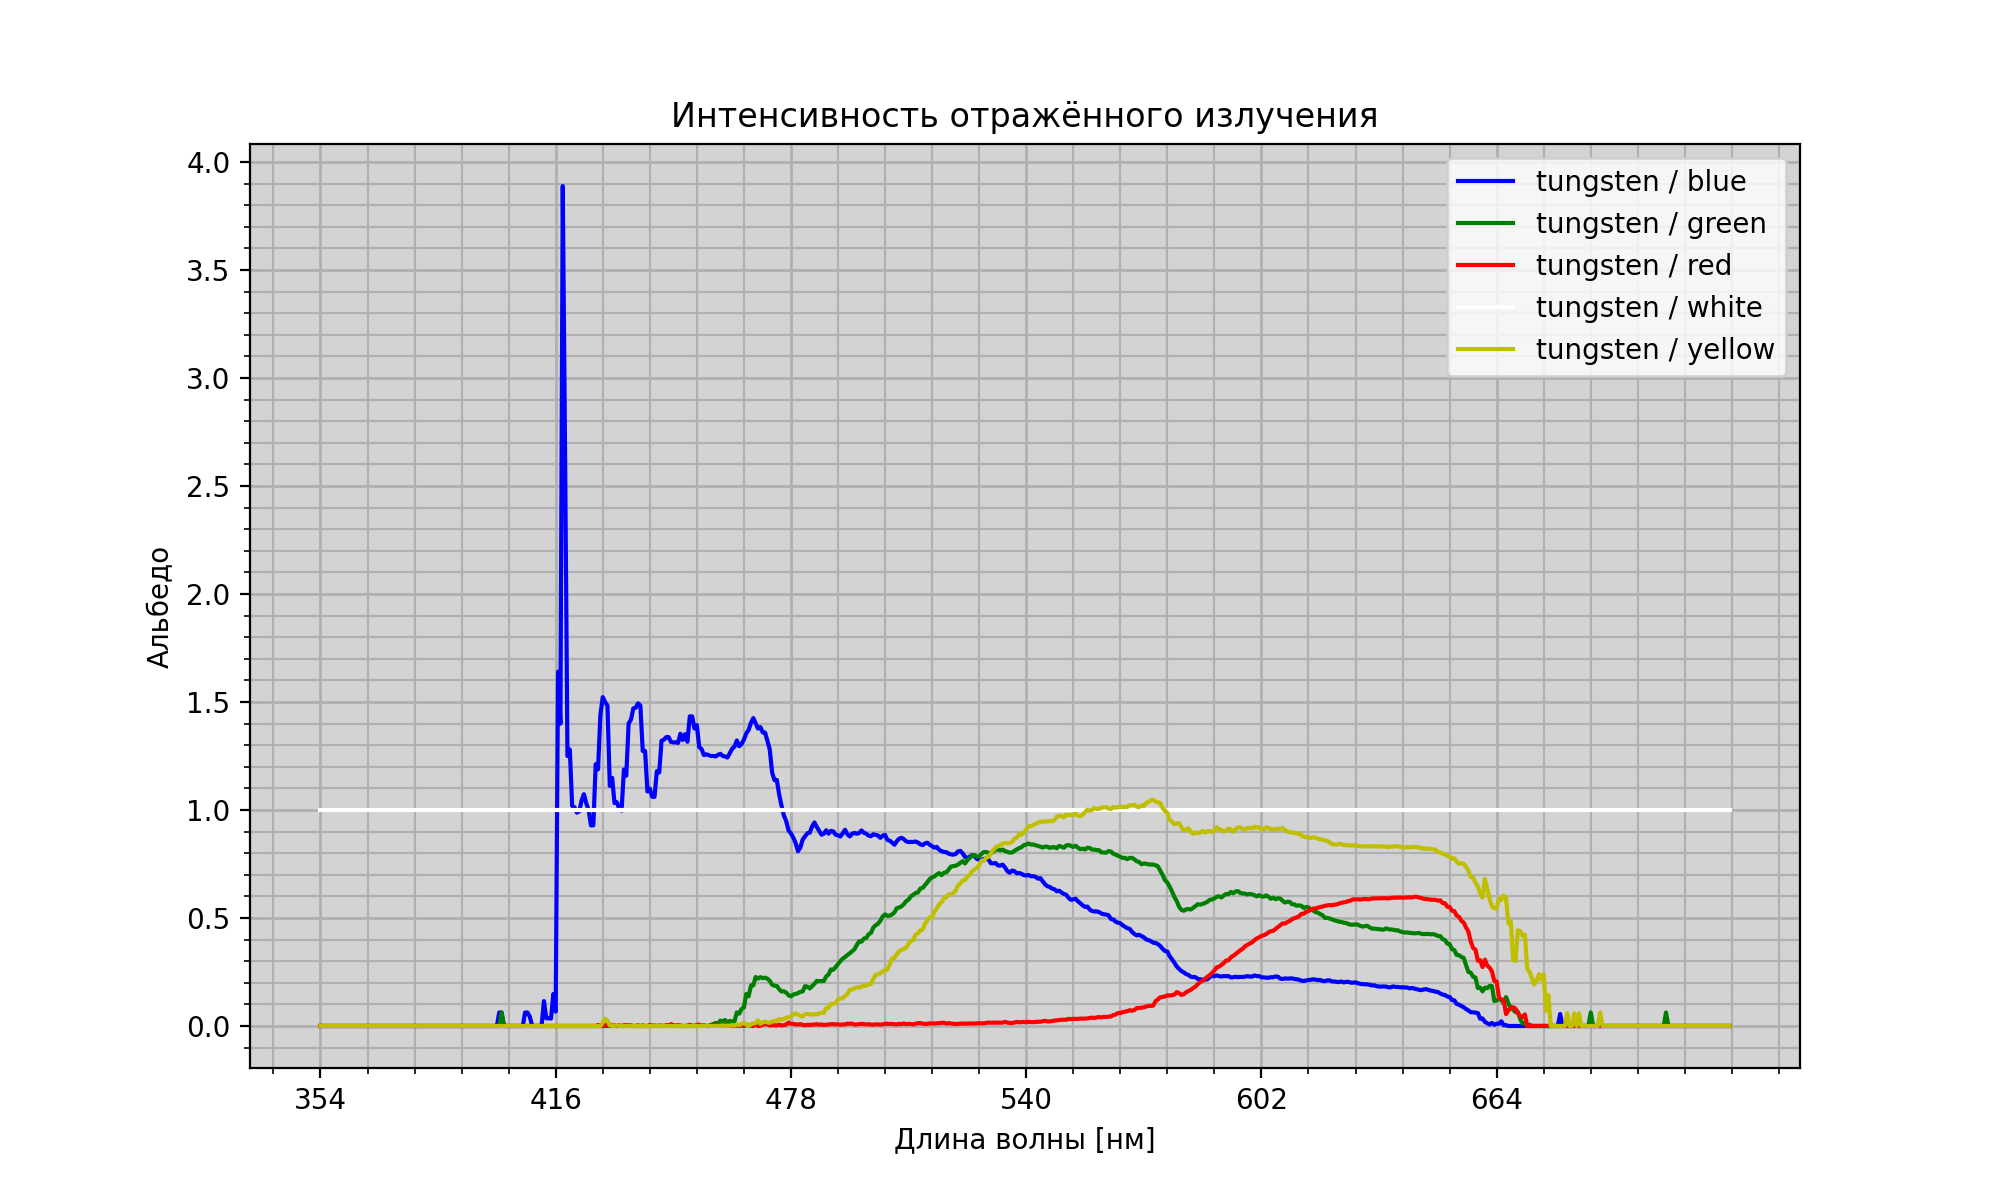
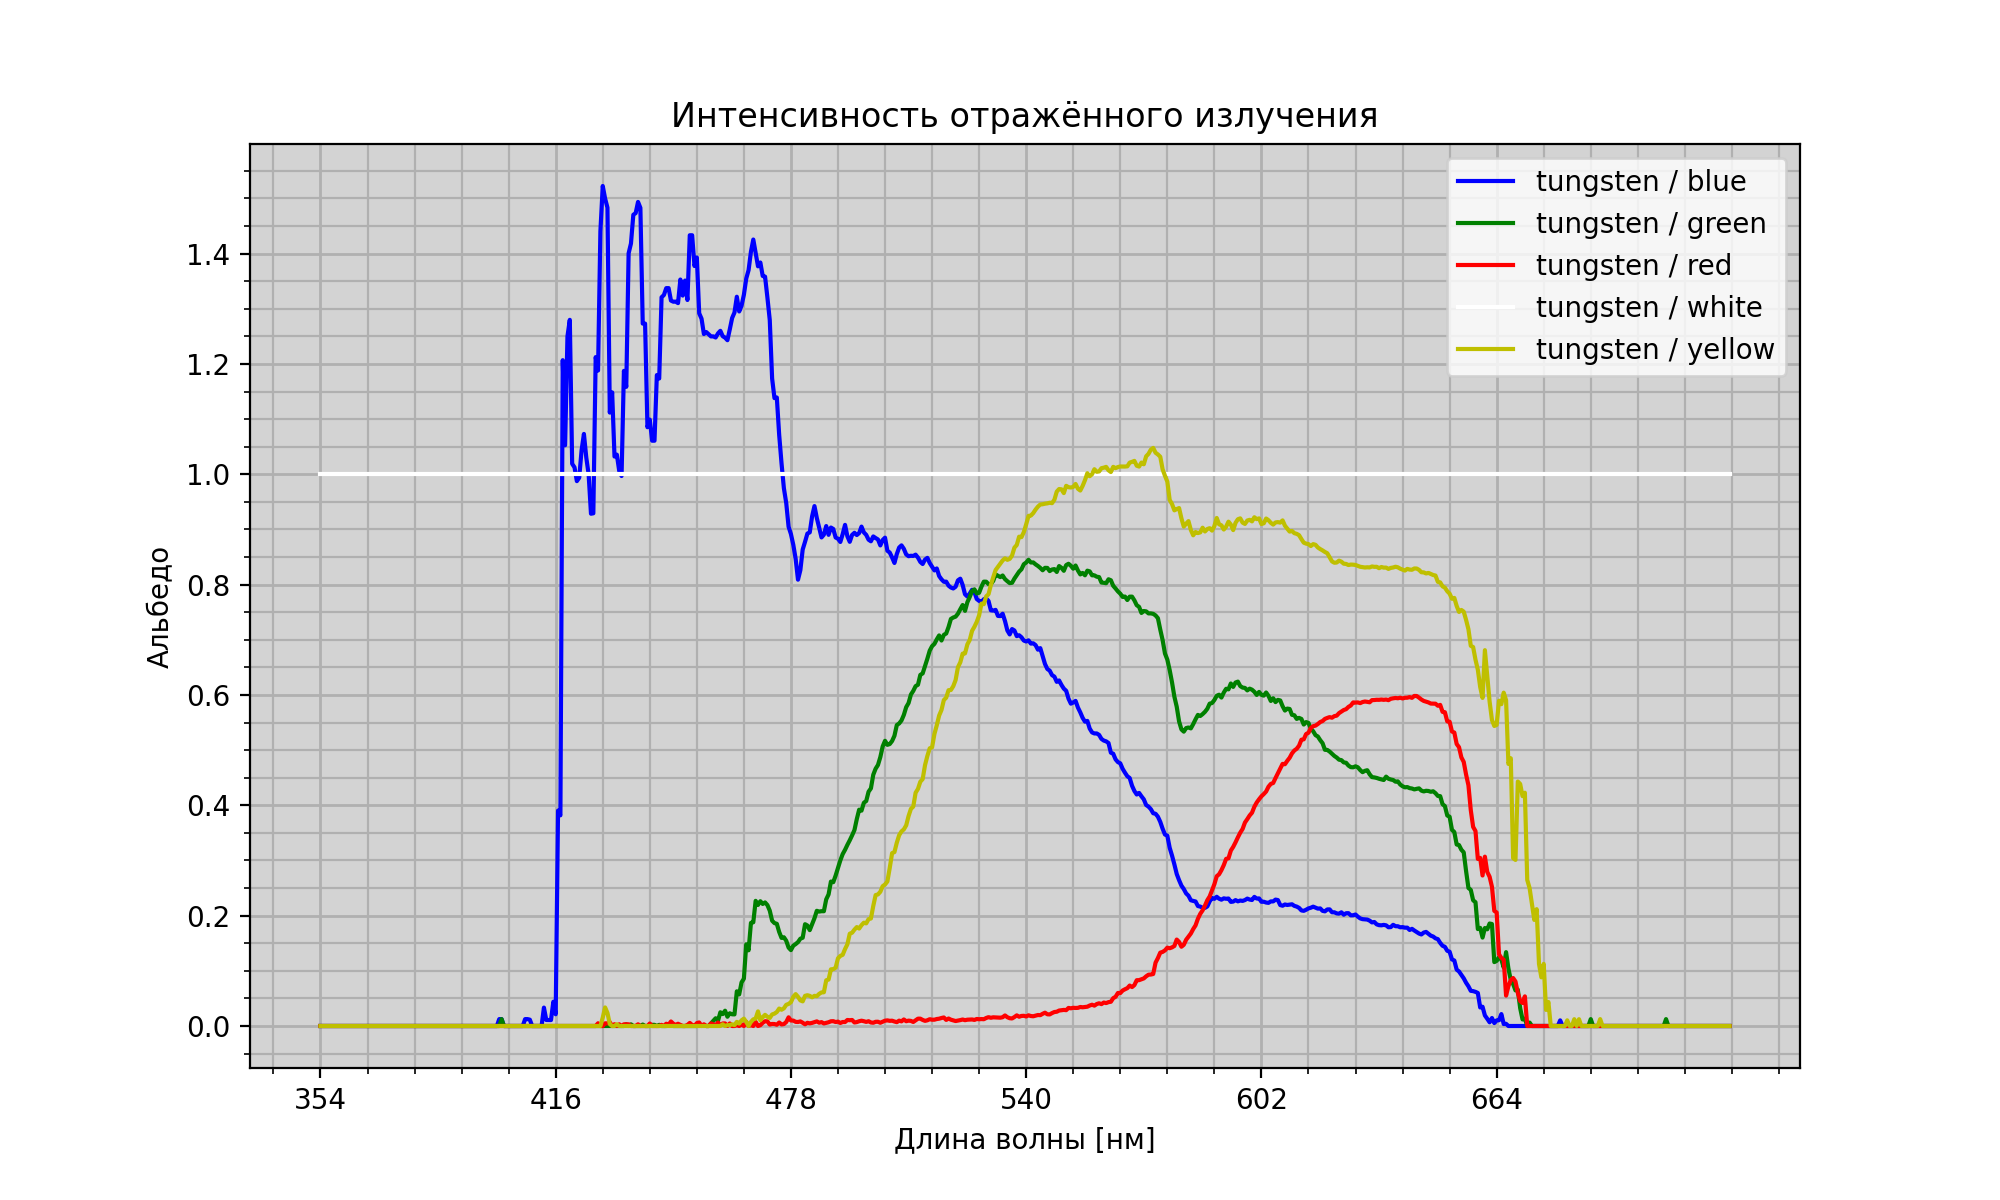
и ещё одна поправка в альбедо

Changed region(s): [[0.093, 0.1233, 0.899, 0.8942], [0.186, 0.8633, 0.248, 0.8942], [0.124, 0.8633, 0.155, 0.8942]]

diff --git a/lightNEW/scripts/lightProcessing.py b/lightNEW/scripts/lightProcessing.py
@@ -42,8 +42,8 @@ for i in range (len(intensity)):
         if i == wh:
             intensity[i][j] = 1    
         else: # НЕ ЗНАЮ КАК СДЕЛАТЬ
-            if white[j] < 0.1:
-                white[j] += 0.1
+            if white[j] < 0.5:
+                white[j] += 0.5
             intensity[i][j] /= white[j]
         
 
